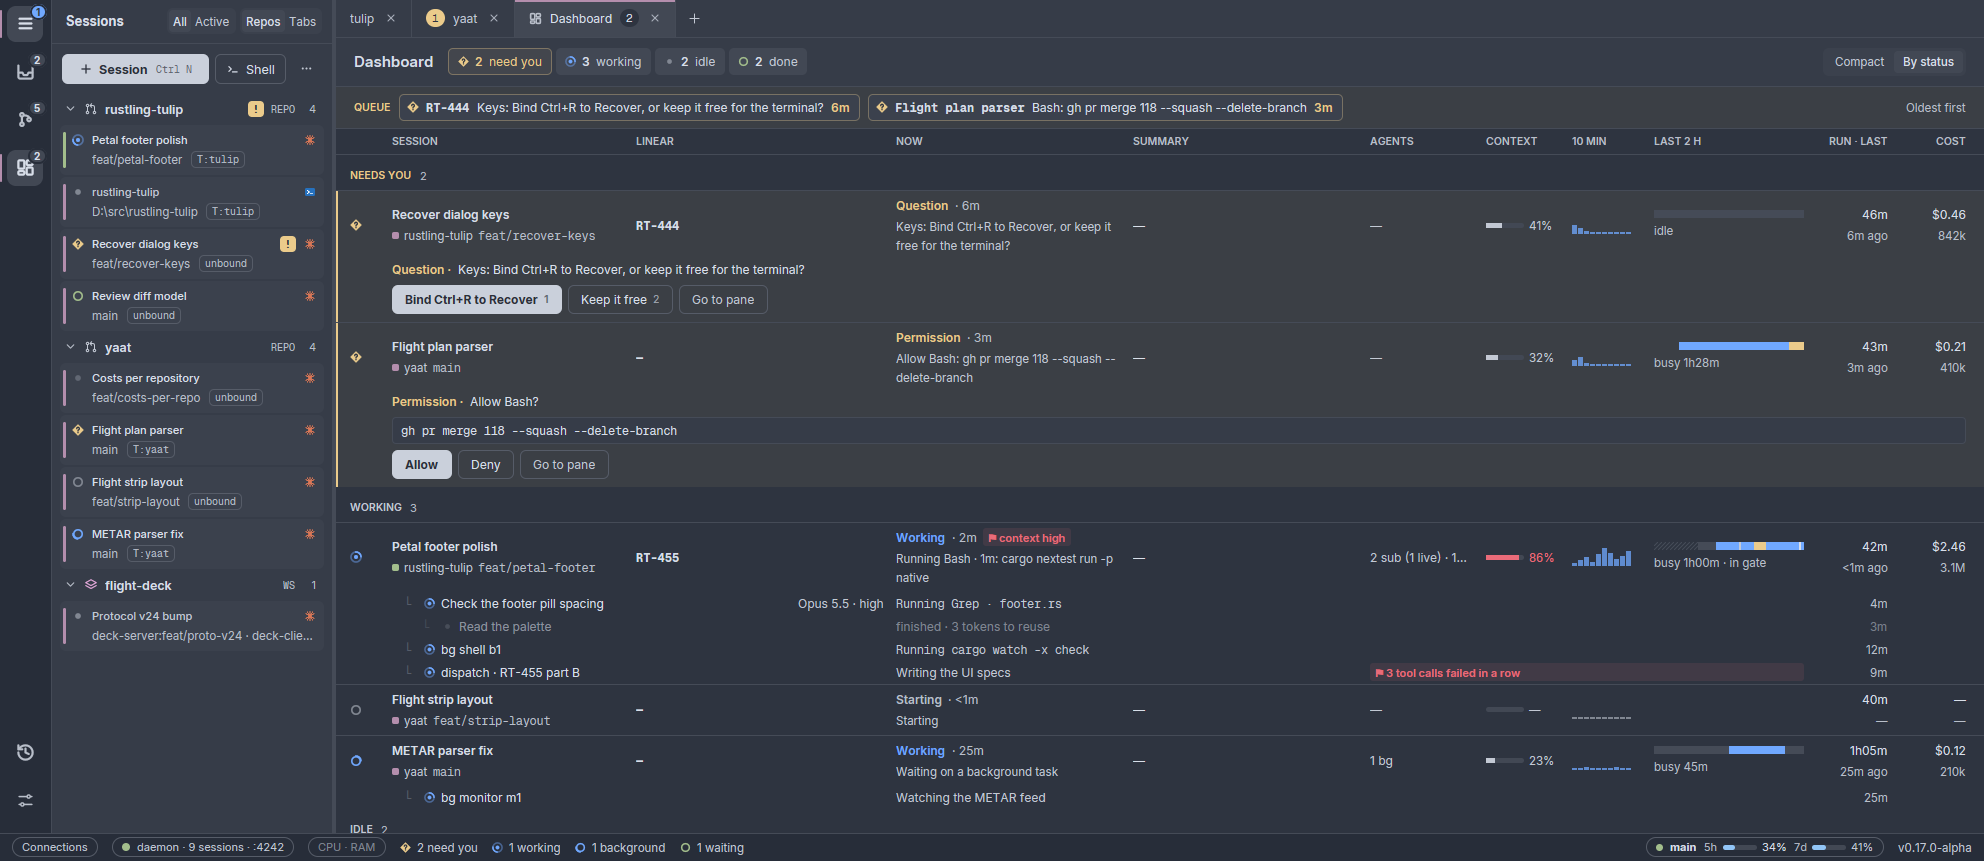
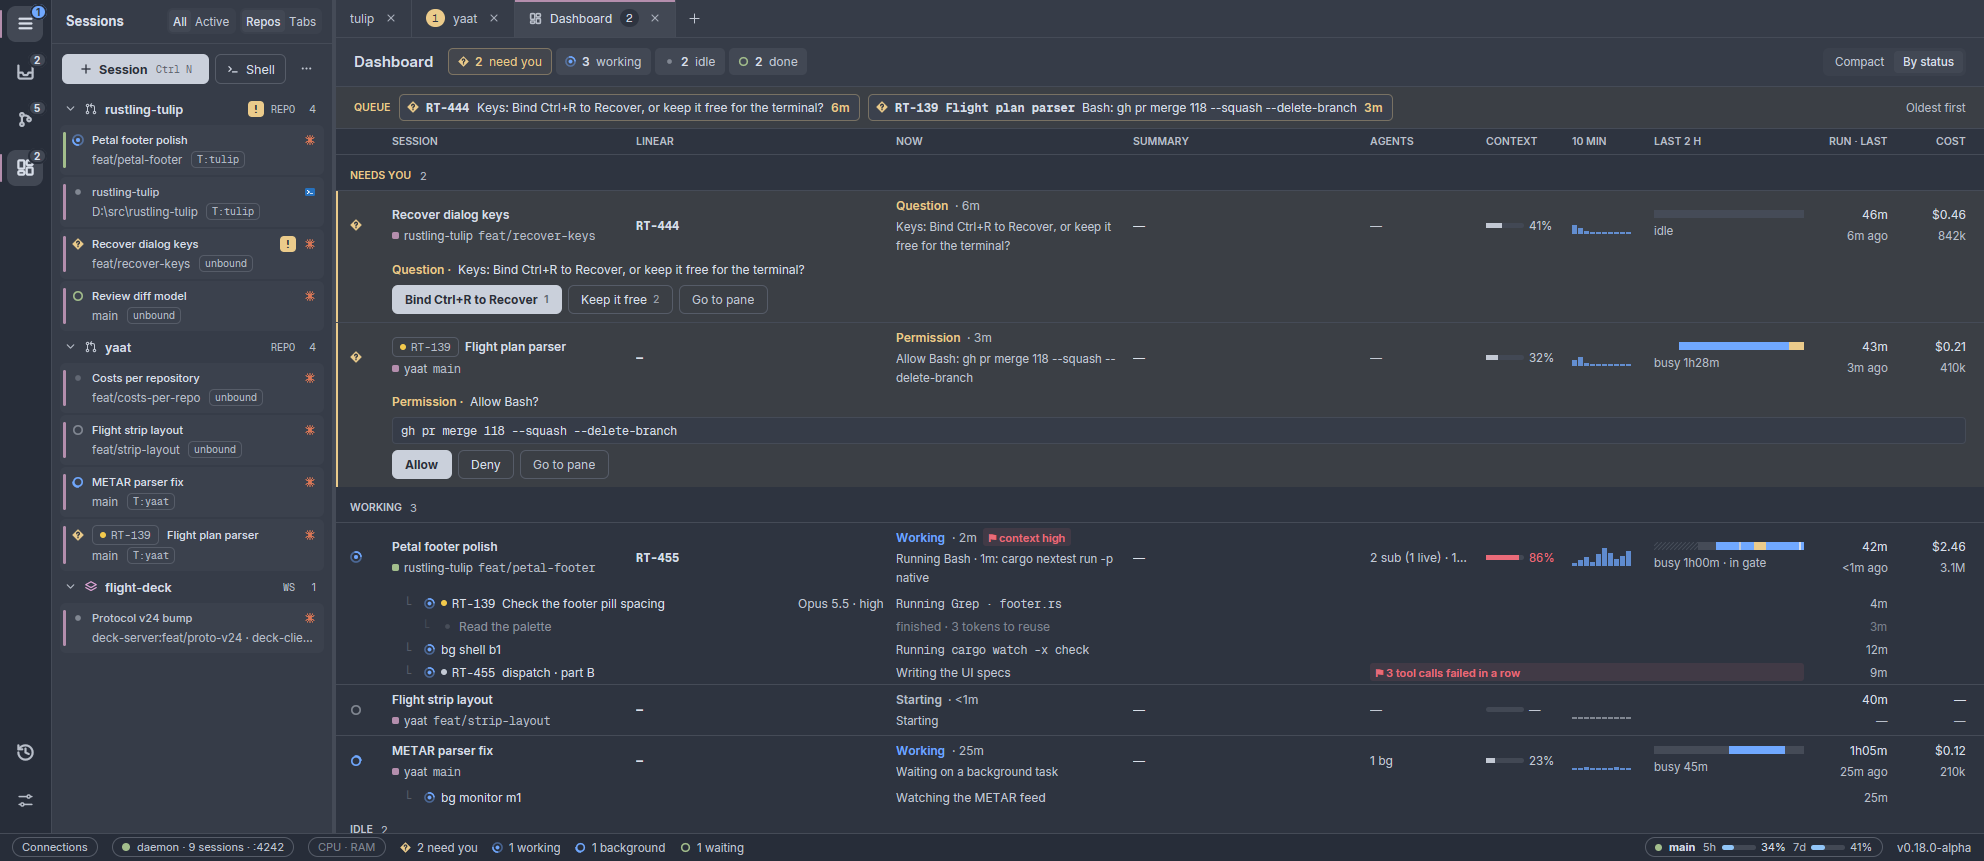
docs: refresh the README for v0.18.0-alpha

diff --git a/README.md b/README.md
@@ -34,11 +34,11 @@ It is alpha software.
 - Launch again with one click: a repo's last launch settings are replayed from its row. Presets start many sessions at once from a prompts file, a folder or GitHub issue ranges, and on a remote host the wizard takes typed paths on that host.
 - In the terminal, copying from Claude Code's boxed panels leaves out the borders, URLs open with Ctrl+click, Ctrl+click on a file path opens it in its default app, Ctrl+Shift+click offers the viewer, its folder or Follow in tab, a tab that tails the file live on any host, shell commands get a pass/fail mark in the gutter with copy and re-run, and two header buttons jump between the prompts you sent.
 - Terminal programs that ask for urxvt or pixel-precise mouse reporting get clicks, drags and the wheel in the format they asked for.
-- Linear issue identifiers such as RT-12 and linear.app issue links are underlined in the terminal: resting on one shows the issue's card, and Ctrl+click opens it in the Linear app or your browser. A session title naming an issue shows it as a chip in its state colour. Identifiers and issue details need a Linear API key in `LINEAR_API_KEY`.
+- Linear issue identifiers such as RT-12 and linear.app issue links are underlined in the terminal: resting on one shows the issue's card, and Ctrl+click opens it in the Linear app or your browser. A session title naming an issue shows it as a chip in its state colour, on the Dashboard and on subagent and run rows too. Settings › Linear saves the Linear API key on each host (or reads `LINEAR_API_KEY`), turns the links off, and tests the key.
 - When Claude exits, its pane stays a working shell, and its Chat and Summary views turn off until Claude starts again.
 - Start Claude yourself in a plain shell, by name, an alias or a wrapper, and the pane gets Chat and Summary while it runs. Settings › Claude can install the app's hooks in Claude Code's own settings, so such a Claude reports its conversation and status too.
 - On macOS hosts, programs that ask the terminal for its colours, such as bat and delta, get your theme's.
-- Secret environment values you give a session are stored in Windows Credential Manager, never in a settings file.
+- Secret environment values you give a session are stored in Windows Credential Manager, or a Mac's login Keychain, never in a settings file.
 
 ![The Dashboard tab's Compact view: a queue of the sessions waiting on you, then every session by repo with its state, what it is doing now and its running subagents and background work](docs/images/dashboard.png)
 
@@ -49,10 +49,11 @@ It is alpha software.
 - The message box lists the session's commands and skills as you type /, marking those that open in the terminal, and its files to mention as you type @. Paste an image, drop files on the chat or pick them with Attach, and their paths join your message.
 - Under the message box, the session's model and effort, such as Opus 5.5 · high, open a model picker in the chat that switches this session's model or steps its effort, and Quick replies such as "continue" or "yes" send in one click.
 - A strip under the chat shows what is still running: subagents, background shells and the next wakeup, with their ages.
-- A Bash or PowerShell card shows its command one statement per line, and a command that writes a log offers Tail: a scrolling box under the card that follows the file as it grows, wherever the file is. A file link in an answer opens the file, and Ctrl+Shift+click on it offers the same menu as the terminal's.
+- A Bash or PowerShell card shows its command one statement per line, and a command that writes a log offers Tail: a scrolling box under the card that follows the file as it grows, wherever the file is. A file path in an answer or a question card is a link in its own colour that opens the file, and Ctrl+Shift+click on it offers the same menu as the terminal's.
 - Pull a draft left in the terminal's prompt box into the message box to edit, send it as it stands or clear it once you confirm, and send or edit Claude's suggested next prompt with one click.
 - Each Code Mode script shows as one line with its description, time and the calls it ran, and a failed script's error under it.
 - The Summary view (Ctrl+Shift+U) shows a session as one line per stretch of work, each opening into its messages.
+- The pane header shows how much of the session's context is used, coloured as the Dashboard colours it.
 - Long replies written as expandable text open a short phrase into its longer form with a click, one level at a time.
 - Compact mode, on by default, folds a run of reads, searches and commands into one line you can open. The chat column keeps a readable width on wide panes, and each turn's final answer sits in its own box.
 
@@ -164,7 +165,6 @@ On a Mac with Apple silicon (there is no build for Intel Macs):
 1. Install [Claude Code](https://github.com/anthropics/claude-code) and check that `claude` runs from a terminal.
 2. Download `rustling-tulip-<version>-macos-arm64.dmg` from the [latest release](https://github.com/leftos/rustling-tulip/releases/latest), open it and drag rustling-tulip into Applications. The app is signed and notarized, so it opens without a warning.
 3. Run it from Applications: a copy run from the disk image or from Downloads cannot update itself.
-4. Secret environment rows need Windows Credential Manager, so on a Mac a session with a secret row will not start; give it the secret through an `${env:NAME}` row instead.
 
 Remote access over Tailscale needs [Tailscale](https://tailscale.com/) on both PCs, signed in to the same tailnet, with HTTPS certificates turned on for it. Remote access over SSH needs only an SSH login to the other PC.
 
